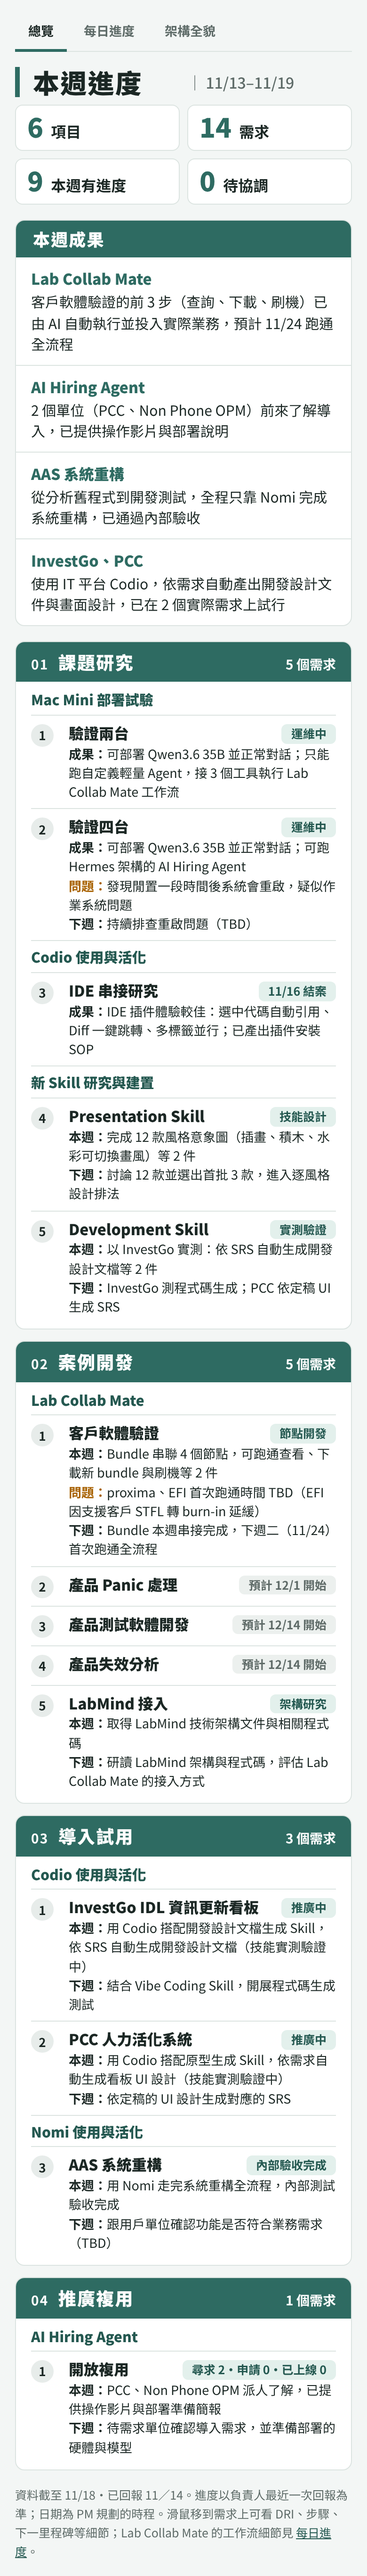
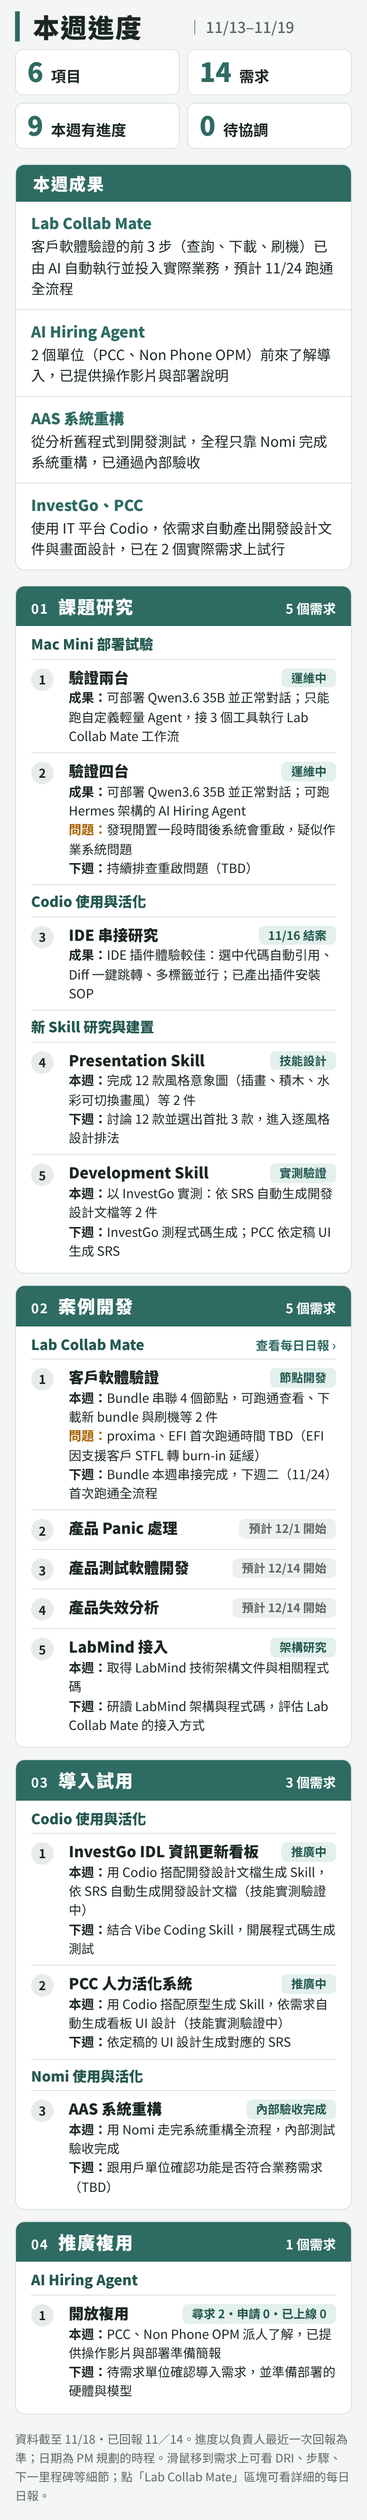
[2026-11-19_homepage-navigation] 首頁拿掉分頁籤，點 Lab Collab Mate 進每日日報；日報與架構頁加「← 總覽」
Claude-Session: https://claude.ai/code/session_01Cd6Gft6mTX8zcMZinAmXya

Changed region(s): [[0.0308, 0.0, 0.9538, 0.9996], [0.0923, 0.5935, 0.1231, 0.656]]

diff --git a/public/index.html b/public/index.html
@@ -38,12 +38,6 @@ body{margin:0;background:var(--bg);color:var(--fg);font-family:var(--f-body);fon
 h1,h2,h3,h4{margin:0;text-wrap:balance}
 .num{font-variant-numeric:tabular-nums}
 
-/* 分頁 */
-.tabs{display:flex;gap:4px;border-bottom:1px solid var(--line)}
-.tabs a{font-size:13.5px;font-weight:700;color:var(--muted);text-decoration:none;padding:6px 13px;border-bottom:3px solid transparent;margin-bottom:-1px}
-.tabs a:hover{color:var(--fg)}
-.tabs a[aria-current="page"]{color:var(--fg);border-bottom-color:var(--brand)}
-.tabs a:focus-visible{outline:2px solid var(--brand);outline-offset:2px;border-radius:4px}
 
 /* 第一行：標題＋週次＋四個數字 */
 .head{display:flex;align-items:center;flex-wrap:wrap;gap:6px 0}
@@ -82,6 +76,15 @@ h1,h2,h3,h4{margin:0;text-wrap:balance}
 /* 三欄底部切齊：較矮的欄把多出的高度平均分給各需求，需求內容在自己的格內垂直置中 */
 .mbody{flex:1 1 auto;display:flex;flex-direction:column}
 .mbody > .proj{flex:none}
+/* 可點進詳細頁的項目組（Lab Collab Mate → 每日日報） */
+.pgroup{display:flex;flex-direction:column;flex:1 1 auto;color:inherit;text-decoration:none;border-radius:8px;margin:0 -8px;padding:0 8px;transition:background .15s}
+.pgroup > .req{flex:1 1 auto;align-content:center}
+.pgroup:hover,.pgroup:focus-visible{background:var(--brand-soft)}
+.pgroup:focus-visible{outline:2px solid var(--brand);outline-offset:2px}
+.pgroup .proj{display:flex;justify-content:space-between;align-items:baseline;gap:8px}
+.proj .go{font-size:13px;font-weight:700;color:var(--brand);white-space:nowrap}
+.pgroup:hover .go{text-decoration:underline}
+@media (prefers-reduced-motion:reduce){.pgroup{transition:none}}
 .mbody > .req{flex:1 1 auto;align-content:center}
 .mod > header{display:flex;align-items:baseline;gap:12px;background:var(--brand);color:var(--on-brand);padding:7px 16px}
 .mod h3{font-size:19px;font-weight:900;letter-spacing:.06em}
@@ -160,7 +163,6 @@ html.fit2 .ask b{font-size:15.5px}
 
 /* ===== 手機版（11-19）：只在 760px 以下生效，桌機版不受影響 ===== */
 @media (max-width:760px){
-  .tabs a{padding:10px 14px}
   /* 標題列：標題與週次一行，四個數字排成 2×2 方格 */
   .head{display:grid;grid-template-columns:repeat(2,minmax(0,1fr));gap:8px}
   .head h1{grid-column:1;font-size:28px;white-space:nowrap}
@@ -182,7 +184,6 @@ html.fit2 .ask b{font-size:15.5px}
 </head>
 <body>
 <div class="page">
-  <nav class="tabs" aria-label="頁面"><a href="./" aria-current="page">總覽</a><a href="daily.html">每日進度</a><a href="arch.html">架構全貌</a></nav>
   <header class="head" id="head"></header>
   <section class="wins" aria-label="本週成果"><div class="lab">本週成果</div><div id="wins"></div></section>
   <section class="ask" id="ask" aria-label="請副總協助" hidden></section>
@@ -364,13 +365,19 @@ function reqHTML(r, i){
   }
   return `<div class="req" title="${esc(tip(r))}"><span class="i num">${i}</span><h4>${esc(r.name)}</h4><span class="pill ${cls}">${esc(word)}</span>${rows}</div>`;
 }
+const LINKS = {"Lab Collab Mate":"daily.html"};  /* 有詳細頁的項目 */
 function modHTML(m, k){
   let html = "", proj = null;
-  m.reqs.forEach((r, i) => { if (r.proj !== proj) { proj = r.proj; html += `<h4 class="proj">${esc(proj)}</h4>`; } html += reqHTML(r, i + 1); });
+  /* 依項目分組；有詳細頁的項目（Lab Collab Mate → 每日日報）整組變成連結 */
+  const groups = [];
+  m.reqs.forEach((r, i) => { if (r.proj !== proj) { proj = r.proj; groups.push({proj, items:[]}); } groups[groups.length - 1].items.push(reqHTML(r, i + 1)); });
+  html = groups.map(g => LINKS[g.proj]
+    ? `<a class="pgroup" href="${LINKS[g.proj]}" style="flex-grow:${g.items.length}" aria-label="${esc(g.proj)}：查看每日日報"><h4 class="proj">${esc(g.proj)}<span class="go">查看每日日報 ›</span></h4>${g.items.join("")}</a>`
+    : `<h4 class="proj">${esc(g.proj)}</h4>${g.items.join("")}`).join("");
   return `<section class="mod"><header><h3><span class="no num">${String(k + 1).padStart(2, "0")}</span>${esc(m.name)}</h3><span>${m.reqs.length} 個需求</span></header><div class="mbody">${html}</div></section>`;
 }
 $("board").innerHTML = [0, 1, 2].map(c => `<div class="col">${MODULES.map((m, k) => m.col === c ? modHTML(m, k) : "").join("")}</div>`).join("");
-$("foot").innerHTML = `資料截至 ${md(ASOF)}・已回報 ${reported.length}／${REQS.length}。進度以負責人最近一次回報為準；日期為 PM 規劃的時程。滑鼠移到需求上可看 DRI、步驟、下一里程碑等細節；Lab Collab Mate 的工作流細節見 <a href="daily.html">每日進度</a>。`;
+$("foot").innerHTML = `資料截至 ${md(ASOF)}・已回報 ${reported.length}／${REQS.length}。進度以負責人最近一次回報為準；日期為 PM 規劃的時程。滑鼠移到需求上可看 DRI、步驟、下一里程碑等細節；點「Lab Collab Mate」區塊可看詳細的每日日報。`;
 
 /* 一頁不滾動：桌機依實際高度逐級收緊（寬鬆 → fit1 → fit2）；字型載入完成與視窗大小改變時重算 */
 function fit(){

diff --git a/public/arch.html b/public/arch.html
@@ -179,12 +179,15 @@ body{background:var(--page-bg);font-family:"Microsoft YaHei","微软雅黑","Pin
 .tabs a[aria-current="page"]{border-bottom-color:var(--brand)}
 .tabs a:focus-visible{outline-color:var(--brand)}
 h1{font-family:inherit;font-weight:900;letter-spacing:.04em;padding-left:14px;border-left:5px solid var(--brand);line-height:1.15}
+/* 返回總覽：和分頁區隔開，不是分頁 */
+.tabs a.back{border-bottom-color:transparent;margin-right:10px;padding-left:0;padding-right:14px;position:relative;font-weight:500}
+.tabs a.back::after{content:"";position:absolute;right:0;top:25%;bottom:25%;border-right:1px solid var(--line)}
 </style>
 </head>
 <body>
 <div class="wrap">
 <header>
-  <nav class="tabs" aria-label="頁面"><a href="./">總覽</a><a href="daily.html">每日進度</a><a href="arch.html" aria-current="page">架構全貌</a></nav>
+  <nav class="tabs" aria-label="頁面"><a class="back" href="./">← 總覽</a><a href="daily.html">每日進度</a><a href="arch.html" aria-current="page">架構全貌</a></nav>
   <div class="eyebrow">LAB COLLAB MATE ・ USB-AGENT 技術架構</div>
   <h1>技術架構全貌</h1>
   <p class="lede">第一階段依程式碼現況整理；第二階段方案 A／B 尚待和 LabMind 團隊確認。實線是已經有的，虛線是要補齊或待確認的。圖太寬時可左右滑動。</p>

diff --git a/public/daily.html b/public/daily.html
@@ -453,13 +453,16 @@ h2{color:var(--brand-ink);font-weight:900}
   .stepper .sd{grid-column:1;min-width:0}
   .stepper .sn,.stepper .sg{grid-column:2}
 }
+/* 返回總覽：和分頁區隔開，不是分頁 */
+.tabs a.back{border-bottom-color:transparent;margin-right:10px;padding-left:0;padding-right:14px;position:relative;font-weight:500}
+.tabs a.back::after{content:"";position:absolute;right:0;top:25%;bottom:25%;border-right:1px solid var(--line)}
 </style>
 </head>
 <body>
 
 <div class="wrap">
   <header class="page">
-    <nav class="tabs" aria-label="頁面"><a href="./">總覽</a><a href="daily.html" aria-current="page">每日進度</a><a href="arch.html">架構全貌</a></nav>
+    <nav class="tabs" aria-label="頁面"><a class="back" href="./">← 總覽</a><a href="daily.html" aria-current="page">每日進度</a><a href="arch.html">架構全貌</a></nav>
     <div class="eyebrow">LAB COLLAB MATE ・ 專案進度日報</div>
     <div class="top">
       <div class="ttl"><h1 id="h1">每日進度</h1><div class="tally" id="tally"></div></div>

diff --git a/work/2026-11-09_usb-agent-architecture-alignment/outputs/src/build_public_arch.py b/work/2026-11-09_usb-agent-architecture-alignment/outputs/src/build_public_arch.py
@@ -32,6 +32,9 @@ body{background:var(--page-bg);font-family:"Microsoft YaHei","微软雅黑","Pin
 .tabs a[aria-current="page"]{border-bottom-color:var(--brand)}
 .tabs a:focus-visible{outline-color:var(--brand)}
 h1{font-family:inherit;font-weight:900;letter-spacing:.04em;padding-left:14px;border-left:5px solid var(--brand);line-height:1.15}
+/* 返回總覽：和分頁區隔開，不是分頁 */
+.tabs a.back{border-bottom-color:transparent;margin-right:10px;padding-left:0;padding-right:14px;position:relative;font-weight:500}
+.tabs a.back::after{content:"";position:absolute;right:0;top:25%;bottom:25%;border-right:1px solid var(--line)}
 """
 
 html = f"""<!doctype html>
@@ -49,7 +52,7 @@ html = f"""<!doctype html>
 <body>
 <div class="wrap">
 <header>
-  <nav class="tabs" aria-label="頁面"><a href="./">總覽</a><a href="daily.html">每日進度</a><a href="arch.html" aria-current="page">架構全貌</a></nav>
+  <nav class="tabs" aria-label="頁面"><a class="back" href="./">← 總覽</a><a href="daily.html">每日進度</a><a href="arch.html" aria-current="page">架構全貌</a></nav>
   <div class="eyebrow">LAB COLLAB MATE ・ USB-AGENT 技術架構</div>
   <h1>技術架構全貌</h1>
   <p class="lede">第一階段依程式碼現況整理；第二階段方案 A／B 尚待和 LabMind 團隊確認。實線是已經有的，虛線是要補齊或待確認的。圖太寬時可左右滑動。</p>

diff --git a/work/2026-11-19_homepage-navigation/STATUS.md b/work/2026-11-19_homepage-navigation/STATUS.md
@@ -1,0 +1,29 @@
+# 首頁導覽：點 Lab Collab Mate 進每日日報
+
+- **狀態**：已完成，在工作分支 `claude/eager-cori-d31bpx`，**待使用者確認後上線**。
+- **開始**：2026-11-19
+- **最後更新**：2026-11-19
+- **交付物**：`public/index.html`、`public/daily.html`、`public/arch.html`（由 `work/2026-11-09_usb-agent-architecture-alignment/outputs/src/build_public_arch.py` 產生）；截圖 `outputs/screenshots/`。
+
+## 使用者要求
+
+每日日報的入口不要用上方分頁籤，而是首頁 Lab Collab Mate 那一塊可以點進去看詳細日報；架構圖可以作為日報的分頁，但首頁不應出現架構圖分頁。
+
+## 已定案的決策
+
+| 日期 | 決策 |
+|---|---|
+| 11-19 | 首頁拿掉上方分頁籤（總覽／每日進度／架構全貌），也不再出現架構全貌連結 |
+| 11-19 | 首頁「02 案例開發・Lab Collab Mate」整組（標題＋5 個需求）是連到每日日報的連結；標題右側「查看每日日報 ›」；滑鼠移上或鍵盤聚焦時整組淡綠底色 |
+| 11-19 | 日報頁與架構頁上方：「← 總覽」返回連結（以細線和分頁區隔）＋「每日進度｜架構全貌」兩個分頁 |
+
+## 驗證
+
+- 首頁：三種桌機（1920／1680／1440）單屏、三欄底部切齊（Lab Collab Mate 整組仍依需求數平均分配高度）、壓力測試 1440 0px；手機無橫向溢出、console 無錯誤；首頁沒有任何分頁籤與架構全貌連結。
+- 點 Lab Collab Mate 區塊 → 進入 `daily.html`（標題「Lab Collab Mate 每日進度」）；日報頁、架構頁上方皆為「← 總覽｜每日進度｜架構全貌」。
+- 註：本次是使用者指定的首頁桌機改動（頁首少了分頁籤一列），與 11-19 手機版任務「不動桌機」不衝突。
+
+## 過程紀錄（由新到舊）
+
+### 2026-11-19
+- 依使用者要求調整導覽（見決策表）；頁尾說明改為「點『Lab Collab Mate』區塊可看詳細的每日日報」。

diff --git a/work/INDEX.md b/work/INDEX.md
@@ -2,6 +2,7 @@
 
 | 任務 | 狀態 | 最後更新 | 主要交付 |
 |---|---|---|---|
+| [首頁導覽：點 Lab Collab Mate 進每日日報](2026-11-19_homepage-navigation/STATUS.md) | 已完成，待確認後上線（工作分支） | 2026-11-19 | `public/index.html`、`public/daily.html`、`public/arch.html` |
 | [手機版可讀性調整（首頁、日報頁）](2026-11-19_mobile-readability/STATUS.md) | **已上線**；桌機版確認未變動 | 2026-11-19 | `public/index.html`、`public/daily.html` 的手機版樣式；截圖 `outputs/screenshots/` |
 | [總覽頁前端重構：讓副總一眼看到本週推進](2026-11-17_overview-redesign/STATUS.md) | **已上線**：總覽頁新版、日報頁 11/18 與統一風格、架構頁外框；下週起依訊息回覆更新 | 2026-11-18 | `public/index.html`、`public/daily.html`、`public/arch.html`；訊息範本 `outputs/data-template.md` |
 | [SW AI 案例總覽主頁 與 日報頁桌機版密度改善](2026-11-17_sw-ai-overview-and-daily-density/STATUS.md) | 已上線（main `27f140d`）；8 案的 DRI／里程碑待補 | 2026-11-17 | `public/index.html`（總覽）、`public/daily.html`（原日報頁） |
